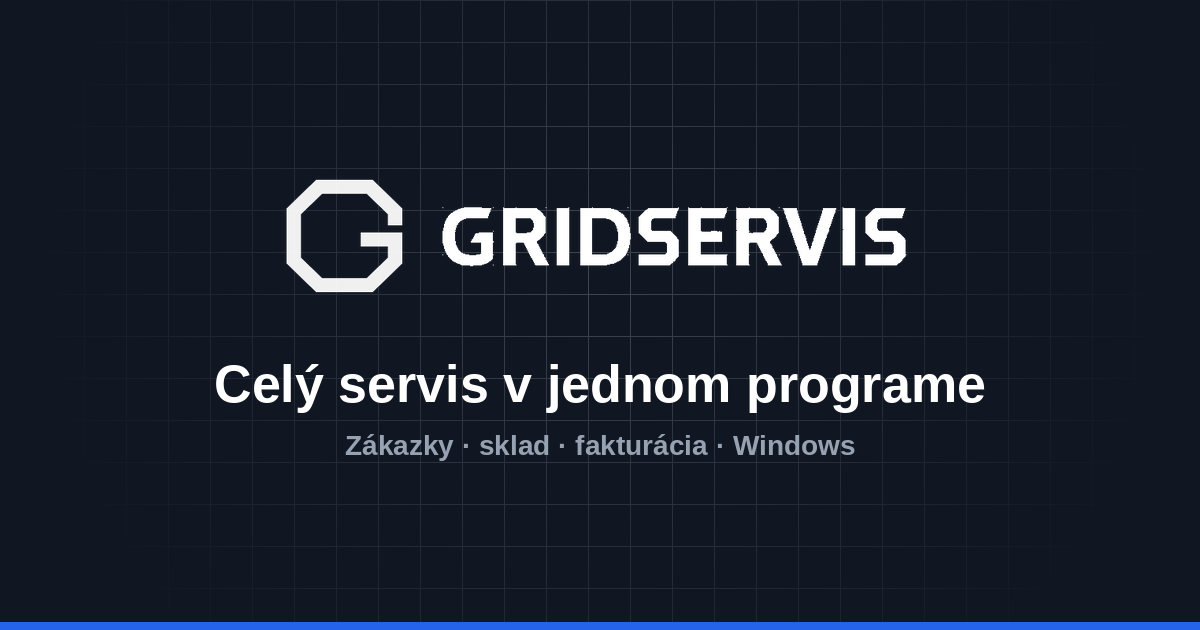
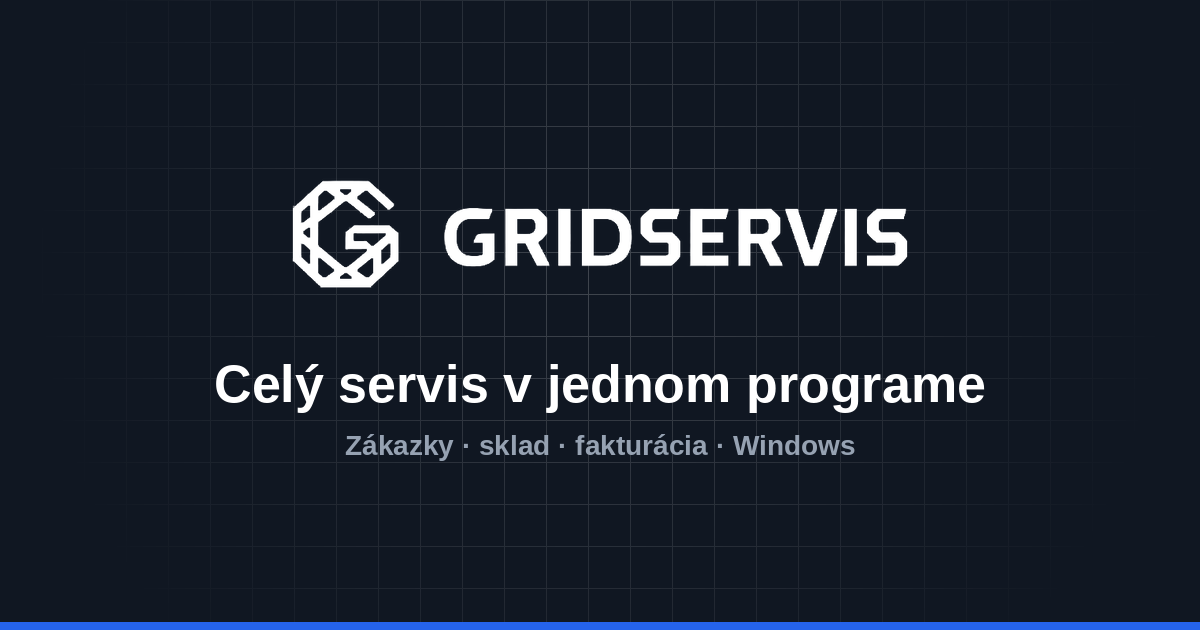
Nahradiť logá a ikony pôvodnými PNG predlohami
Logo, znak G, favicony, OG náhľad aj favicon.ico sa teraz robia
z pôvodných PNG v tools/predloha/ namiesto prekresleného znaku.
Z predlohy sa odstráni len biely podklad a sivá pomocná mriežka.
Chybový výstup /api/stiahnut odkazoval na neexistujúci favicon.svg.

Changed region(s): [[0.37, 0.3317, 0.7708, 0.4222], [0.2158, 0.2714, 0.3392, 0.4825]]

diff --git a/api/stiahnut.js b/api/stiahnut.js
@@ -23,7 +23,7 @@ function odmietni(res, stav, sprava) {
     '<!DOCTYPE html><html lang="sk"><head><meta charset="utf-8">' +
     '<meta name="viewport" content="width=device-width, initial-scale=1">' +
     '<title>Stiahnutie nie je sprístupnené — GridServis</title>' +
-    '<link rel="icon" href="/assets/img/favicon.svg">' +
+    '<link rel="icon" href="/assets/img/favicon-32.png">' +
     '<link rel="stylesheet" href="/assets/css/styles.css"></head><body>' +
     '<section class="phead"><div class="wrap wrap--nar">' +
     '<h1>Stiahnutie nie je sprístupnené</h1>' +

diff --git a/tools/obrazky.py b/tools/obrazky.py
@@ -1,8 +1,15 @@
 # -*- coding: utf-8 -*-
-"""Vygeneruje dva obrázky, ktoré sa nedajú poskladať v HTML.
+"""Vygeneruje logá, ikony a obrázky, ktoré sa nedajú poskladať v HTML.
 
-  assets/img/og-gridservis.png   náhľad 1200 × 630 do Messengeru a na Facebook
-  favicon.ico                    ikona pre prehliadače, ktoré si pýtajú /favicon.ico
+  assets/img/gridservis-logo.png   logo so znakom a nápisom (z predlohy)
+  assets/img/gridservis-napis.png  samotný nápis GRIDSERVIS (z predlohy)
+  assets/img/logo-256/512.png      samotný znak G (z predlohy)
+  assets/img/favicon-*.png         ikony webu (zo znaku G)
+  assets/img/og-gridservis.png     náhľad 1200 × 630 do Messengeru a na Facebook
+  favicon.ico                      ikona pre prehliadače, ktoré si pýtajú /favicon.ico
+
+Logá sa nekreslia nanovo — berú sa z pôvodných PNG v tools/predloha/.
+Z predlohy sa len odstráni biely podklad a sivé pomocné linky mriežky.
 
 Spúšťa sa ručne, len keď sa mení značka alebo veta pod logom:
 
@@ -14,11 +21,16 @@ Potrebuje Pillow. Výstupy sú v repe, takže pri bežnom generovaní stránok
 """
 import os
 
-from PIL import Image, ImageChops, ImageDraw, ImageFont
+from PIL import Image, ImageChops, ImageDraw, ImageFilter, ImageFont
 
 KOREN = os.path.dirname(os.path.dirname(os.path.abspath(__file__)))
 OUT = os.path.join(KOREN, 'public')   # web sa nasadzuje z public/, nie z koreňa repa
 IMG = os.path.join(OUT, 'assets', 'img')
+PREDLOHA = os.path.join(KOREN, 'tools', 'predloha')
+
+# Pomocné linky mriežky v predlohe majú jas okolo 180–245, samotná kresba
+# je čierna. Všetko svetlejšie ako PRAH je podklad alebo mriežka.
+PRAH = 160
 
 # Rozmer, ktorý čakajú Facebook, Messenger aj Twitter/X.
 SIRKA, VYSKA = 1200, 630
@@ -65,23 +77,69 @@ def mriezka():
     return Image.eval(ImageChops.multiply(linky, stmavenie), lambda v: v)
 
 
+def bez_podkladu(nazov):
+    """Predloha bez bieleho podkladu a mriežky: čierna kresba s priehľadnosťou.
+    Tvary ani farba sa nemenia, zmizne len to, čo nie je kresba."""
+    jas = Image.open(os.path.join(PREDLOHA, nazov)).convert('L')
+    tma = jas.point(lambda v: 255 - v)
+    # linky mriežky sú hrubé 1 px: uzavretie zaplní tie, čo idú cez kresbu,
+    # otvorenie zmaže tie na bielom podklade. Hrubšie ťahy loga ostanú.
+    tma = tma.filter(ImageFilter.MaxFilter(3)).filter(ImageFilter.MinFilter(3))
+    tma = tma.filter(ImageFilter.MinFilter(3)).filter(ImageFilter.MaxFilter(3))
+    jas = tma.point(lambda v: 255 - v)
+    kryvost = jas.point(lambda v: 0 if v >= PRAH else int(round((PRAH - v) * 255.0 / PRAH)))
+    kryvost = kryvost.point(lambda v: 255 if v > 235 else v)
+    logo = Image.new('RGBA', jas.size, (0, 0, 0, 0))
+    logo.putalpha(kryvost)
+    return logo.crop(kryvost.getbbox())
+
+
+def ulozit(obr, nazov):
+    cesta = os.path.join(IMG, nazov)
+    obr.save(cesta, 'PNG', optimize=True)
+    print('napísané', os.path.relpath(cesta, OUT), obr.size)
+
+
+def na_stvorec(obr, strana, okraj, podklad=None):
+    """Vycentruje obrázok do štvorca s daným okrajom (podiel strany)."""
+    vnutro = int(round(strana * (1 - 2 * okraj)))
+    mierka = vnutro / float(max(obr.size))
+    zmensene = obr.resize((max(1, int(round(obr.width * mierka))),
+                           max(1, int(round(obr.height * mierka)))), Image.LANCZOS)
+    stvorec = Image.new('RGBA', (strana, strana), podklad or (0, 0, 0, 0))
+    stvorec.alpha_composite(zmensene, ((strana - zmensene.width) // 2,
+                                       (strana - zmensene.height) // 2))
+    return stvorec
+
+
+def loga():
+    cele = bez_podkladu('logo-cele.png')
+    # rovnaký rozmer 838 × 168 ako doteraz, nech netreba meniť width/height v HTML
+    platno = Image.new('RGBA', (838, 168), (0, 0, 0, 0))
+    platno.alpha_composite(cele, ((838 - cele.width) // 2, (168 - cele.height) // 2))
+    ulozit(platno, 'gridservis-logo.png')
+
+    ulozit(bez_podkladu('logo-napis.png'), 'gridservis-napis.png')
+
+    znak = bez_podkladu('logo-znak.png')
+    ulozit(na_stvorec(znak, 512, 0.02), 'logo-512.png')
+    ulozit(na_stvorec(znak, 256, 0.02), 'logo-256.png')
+    ulozit(na_stvorec(znak, 512, 0.04), 'favicon-512.png')
+    # iOS priehľadnosť vyplní čiernou, preto biely podklad
+    ulozit(na_stvorec(znak, 180, 0.1, (255, 255, 255, 255)).convert('RGB'), 'favicon-180.png')
+    ulozit(na_stvorec(znak, 32, 0.0), 'favicon-32.png')
+
+
 def og():
     plagat = Image.new('RGB', (SIRKA, VYSKA), TMAVA)
 
     biela = Image.new('RGB', (SIRKA, VYSKA), (255, 255, 255))
     plagat.paste(biela, (0, 0), mriezka())
 
-    # Logo je čierna kresba na bielom podklade. Na tmavé pozadie sa nedá
-    # položiť tak, ako je — jas sa preto použije ako priehľadnosť a samotné
-    # logo sa vykreslí nabielo. Biely podklad tým zmizne úplne.
-    zdroj = Image.open(os.path.join(IMG, 'gridservis-logo.png')).convert('L')
-    kryvost = zdroj.point(lambda v: 255 - v)
-    # slabé pomocné linky v predlohe sa neprenášajú, ostane len kresba
-    kryvost = kryvost.point(lambda v: 0 if v < 60 else v)
-    logo = Image.new('RGBA', zdroj.size, (255, 255, 255, 0))
-    logo.putalpha(kryvost)
-    logo = Image.composite(Image.new('RGBA', zdroj.size, (255, 255, 255, 255)),
-                           logo, kryvost)
+    # Logo je čierna kresba na priehľadnom podklade. Na tmavé pozadie sa
+    # vykreslí nabielo — priehľadnosť ostane, farba sa zmení na bielu.
+    kryvost = Image.open(os.path.join(IMG, 'gridservis-logo.png')).getchannel('A')
+    logo = Image.new('RGBA', kryvost.size, (255, 255, 255, 255))
     logo.putalpha(kryvost)
     sirka_loga = 660
     logo = logo.resize((sirka_loga, int(logo.height * sirka_loga / float(logo.width))),
@@ -116,5 +174,6 @@ def ico():
 
 
 if __name__ == '__main__':
+    loga()
     og()
     ico()
